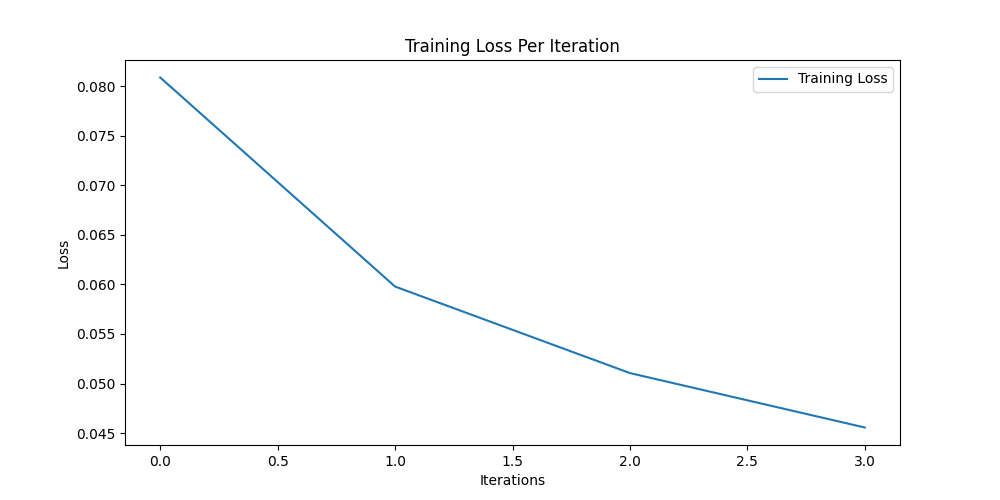
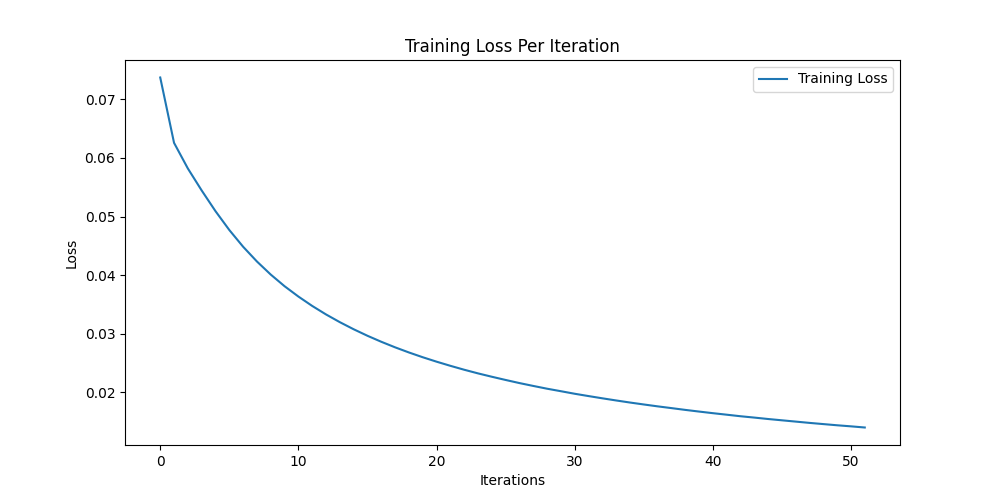
adding early stopping and support for .vec embedding files

diff --git a/multi_relational_training.py b/multi_relational_training.py
@@ -40,7 +40,7 @@ import matplotlib.pyplot as plt
 class Experiment:
 
     def __init__(self, learning_rate=50, dim=40, nneg=50, model="poincare",
-                 num_iterations=500, batch_size=128, dataset="wiktionary", device_type='cpu'):
+                 num_iterations=500, batch_size=128, dataset="wiktionary", device_type='cpu', early_stopping=3):
         
         self.model_type = model
         self.dataset = dataset
@@ -50,6 +50,7 @@ class Experiment:
         self.num_iterations = num_iterations
         self.batch_size = batch_size
         self.device_type = device_type
+        self.early_stopping = early_stopping
 
         # set device type variables
         if device_type == "cuda": 
@@ -90,6 +91,7 @@ class Experiment:
         print("cuda: " + str(self.cuda))
         print("mps: " + str(self.mps))
         print("cpu: " + str(self.cpu))
+        print("early_stopping: " + str(self.early_stopping))
         print("-------------------------------------------------------------")
     
 
@@ -164,17 +166,12 @@ class Experiment:
         param_names = [name for name, param in model.named_parameters()]
         opt = RiemannianSGD(model.parameters(), lr=self.learning_rate, param_names=param_names)
 
-        #
-        # note model object does not appear 
-        # to support mps, Apple silicon
-        #
-
         # Move the model to GPU as available
         if torch.cuda.is_available():
             model = torch.nn.DataParallel(model)
             model.cuda()
-        elif self.cpu:
-            model.cpu()
+        else:
+            model.to(device)
 
         train_data_idxs_tensor = torch.tensor(train_data_idxs, device=device)
         entity_idxs_lst = list(self.entity_idxs.values())
@@ -260,10 +257,32 @@ class Experiment:
                 os.makedirs(out_emb_path, exist_ok=True)
                 os.makedirs(out_model_path, exist_ok=True)
 
+                # Save .pkl
                 pickle.dump(embeddings_dict, open(outfile_path, "wb"))
+
+                # Save .vec
+                vec_file = outfile_path + ".vec"
+                with open(vec_file, "w") as fvec:
+                    dim = len(next(iter(embeddings_dict.values())))
+                    fvec.write(f"{len(embeddings_dict)} {dim}\n")
+                    for word, vector in embeddings_dict.items():
+                        vector_str = " ".join([f"{x:.6f}" for x in vector])
+                        fvec.write(f"{word} {vector_str}\n")
+
                 score = self.evaluate(model, outfile_path, self.model_type)
                 print(f"Evaluation score: {score}")
                 
+                # Early stopping logic
+                improvement = (score - self.best_eval_score) / max(self.best_eval_score, 1e-8) * 100
+                if improvement < 0.01:
+                    self.no_improvement_count += 1
+                    print(f"No significant improvement ({improvement:.5f}%), count = {self.no_improvement_count}")
+                else:
+                    self.no_improvement_count = 0
+
+                if self.no_improvement_count >= self.early_stopping:
+                    print(f'Early stopping triggered: no significant improvement in last {self.early_stopping} evaluations.')
+                    break
 
                 #
                 # if the model is the best, save it and store info
@@ -271,8 +290,20 @@ class Experiment:
                 if score > self.best_eval_score:                                           
                     
                     print("New best model, saving the embeddings...")
-                    outfile_path = os.path.join(out_emb_path, f"best_model_dict_{self.model_type}_{self.dim}_{self.dataset}")
-                    pickle.dump(embeddings_dict, open(outfile_path, "wb"))
+                    best_outfile_path = os.path.join(out_emb_path, f"best_model_dict_{self.model_type}_{self.dim}_{self.dataset}")
+
+                    # Save best .pkl
+                    pickle.dump(embeddings_dict, open(best_outfile_path, "wb"))
+                    
+                    # Save best .vec
+                    best_vec_file = best_outfile_path + ".vec"
+                    with open(best_vec_file, "w") as fvec:
+                        dim = len(next(iter(embeddings_dict.values())))
+                        fvec.write(f"{len(embeddings_dict)} {dim}\n")
+                        for word, vector in embeddings_dict.items():
+                            vector_str = " ".join([f"{x:.6f}" for x in vector])
+                            fvec.write(f"{word} {vector_str}\n")
+                            
                     self.best_eval_score = score
                     
                     # Saving checkpoint for the best model
@@ -298,7 +329,7 @@ class Experiment:
 
         plt.savefig('output/plot.png')
 
-        #plt.show()
+        plt.show()
 
 #
 # pjw updates:
